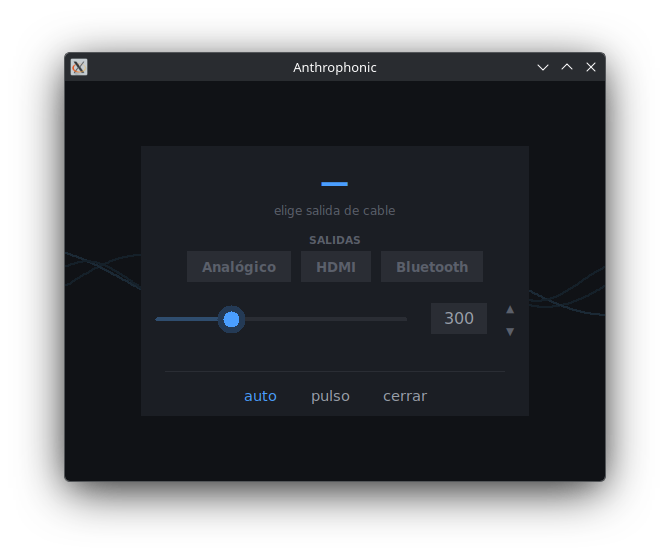
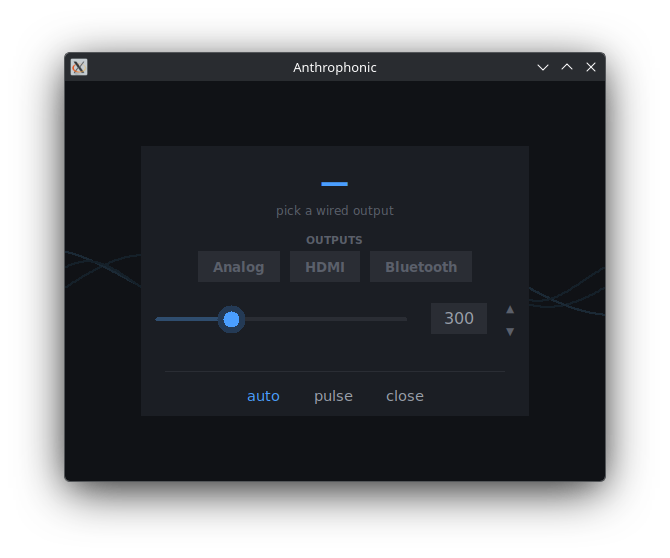
docs: English-first README and English screenshot
Default UI language is English; put the English section first and
recapture the panel in English locale.

diff --git a/README.md b/README.md
@@ -12,39 +12,6 @@ UI language auto-detects from the system locale (Spanish if `$LANG` starts with 
 
 ---
 
-## 🇪🇸 Español
-
-### Qué hace
-PipeWire deja sonar varias salidas a la vez creando un *null-sink* central y un *loopback*
-por cada salida. El problema: el Bluetooth añade ~150-300 ms de retardo (decodificación A2DP
-+ buffer del casco) → eco respecto a los altavoces. Esta herramienta:
-
-- Activa/desactiva cada salida con botones de color (azul = activa).
-- Retrasa las salidas de cable para cuadrarlas con el Bluetooth.
-- **auto**: lee la latencia que PipeWire conoce del BT y aplica el retardo, aprendiendo el
-  retardo "oculto" del casco que PipeWire no ve.
-- **pulso de prueba**: tren de clics nítidos para afinar a oído.
-
-### Requisitos
-- PipeWire (con `pipewire-pulse`) — `pactl`, `pw-dump`
-- `paplay` (paquete `pulseaudio-utils`)
-- Python 3 + `numpy` (para generar el pulso de prueba)
-- Tkinter (`python3-tk`)
-
-### Instalar
-```bash
-./install.sh
-```
-Copia el script a `~/.local/bin/` y crea el lanzador en el menú. Para desinstalar:
-`./install.sh --uninstall`.
-
-### Uso
-1. Abre **Audio combinado**.
-2. Activa las salidas que quieras (chips azules).
-3. Pulsa **auto** para sincronizar, o ajusta a mano con el slider + **pulso**.
-
----
-
 ## 🇬🇧 English
 
 ### What it does
@@ -74,6 +41,39 @@ against wired speakers. This tool:
 1. Open **Anthrophonic**.
 2. Enable the outputs you want (blue chips).
 3. Hit **auto** to sync, or tune manually with the slider + **pulse**.
+
+---
+
+## 🇪🇸 Español
+
+### Qué hace
+PipeWire deja sonar varias salidas a la vez creando un *null-sink* central y un *loopback*
+por cada salida. El problema: el Bluetooth añade ~150-300 ms de retardo (decodificación A2DP
++ buffer del casco) → eco respecto a los altavoces. Esta herramienta:
+
+- Activa/desactiva cada salida con botones de color (azul = activa).
+- Retrasa las salidas de cable para cuadrarlas con el Bluetooth.
+- **auto**: lee la latencia que PipeWire conoce del BT y aplica el retardo, aprendiendo el
+  retardo "oculto" del casco que PipeWire no ve.
+- **pulso de prueba**: tren de clics nítidos para afinar a oído.
+
+### Requisitos
+- PipeWire (con `pipewire-pulse`) — `pactl`, `pw-dump`
+- `paplay` (paquete `pulseaudio-utils`)
+- Python 3 + `numpy` (para generar el pulso de prueba)
+- Tkinter (`python3-tk`)
+
+### Instalar
+```bash
+./install.sh
+```
+Copia el script a `~/.local/bin/` y crea el lanzador en el menú. Para desinstalar:
+`./install.sh --uninstall`.
+
+### Uso
+1. Abre **Anthrophonic**.
+2. Activa las salidas que quieras (chips azules).
+3. Pulsa **auto** para sincronizar, o ajusta a mano con el slider + **pulso**.
 
 ---
 